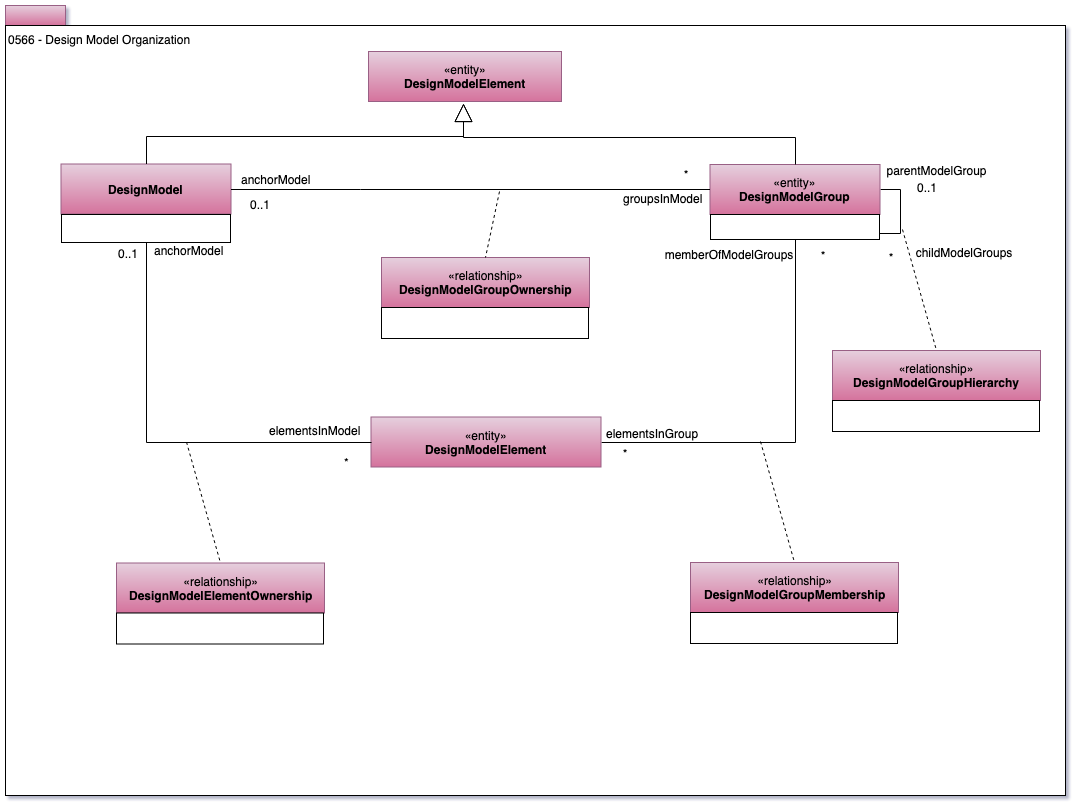
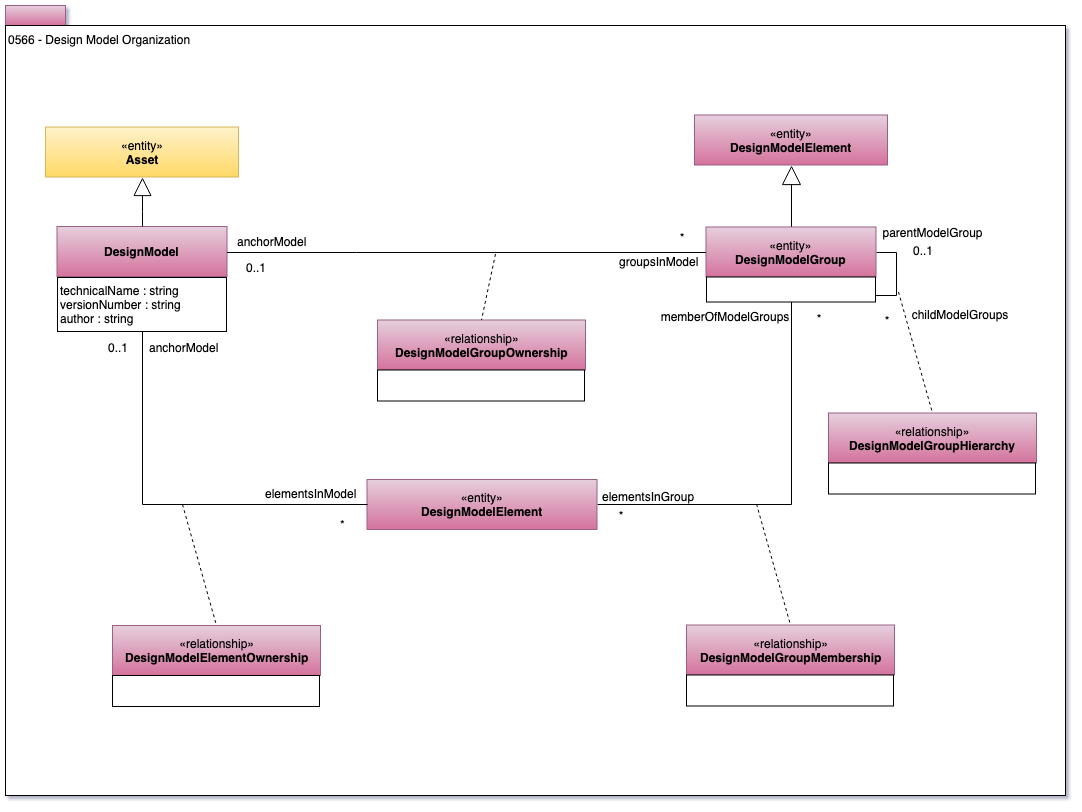
Make DesignModel an Asset (#1665)

diff --git a/open-metadata-resources/open-metadata-archives/open-metadata-types/src/main/java/org/odpi/openmetadata/opentypes/OpenMetadataTypesArchive.java b/open-metadata-resources/open-metadata-archives/open-metadata-types/src/main/java/org/odpi/openmetadata/opentypes/OpenMetadataTypesArchive.java
@@ -21033,7 +21033,7 @@ public class OpenMetadataTypesArchive
         final String attribute4Description     = "Version number of the model element.";
         final String attribute4DescriptionGUID = null;
         final String attribute5Name            = "author";
-        final String attribute5Description     = "UserId of the creator of the model element.";
+        final String attribute5Description     = "Name of the creator of the model (person or organization).";
         final String attribute5DescriptionGUID = null;
 
         property = archiveHelper.getStringTypeDefAttribute(attribute1Name,
@@ -21086,13 +21086,47 @@ public class OpenMetadataTypesArchive
         final String description     = "A curated collection of design model elements.";
         final String descriptionGUID = null;
 
-        final String superTypeName = "DesignModelElement";
+        final String superTypeName = "Asset";
 
-        return archiveHelper.getDefaultEntityDef(guid,
-                                                 name,
-                                                 this.archiveBuilder.getEntityDef(superTypeName),
-                                                 description,
-                                                 descriptionGUID);
+        EntityDef entityDef = archiveHelper.getDefaultEntityDef(guid,
+                                                                name,
+                                                                this.archiveBuilder.getEntityDef(superTypeName),
+                                                                description,
+                                                                descriptionGUID);
+
+        /*
+         * Build the attributes
+         */
+        List<TypeDefAttribute> properties = new ArrayList<>();
+        TypeDefAttribute       property;
+
+
+        final String attribute1Name            = "technicalName";
+        final String attribute1Description     = "Technical name (no spaces) that can be used in artifact generation.";
+        final String attribute1DescriptionGUID = null;
+        final String attribute2Name            = "versionNumber";
+        final String attribute2Description     = "Version number of the model.";
+        final String attribute2DescriptionGUID = null;
+        final String attribute3Name            = "author";
+        final String attribute3Description     = "Name of the creator of the model (person or organization).";
+        final String attribute3DescriptionGUID = null;
+
+        property = archiveHelper.getStringTypeDefAttribute(attribute1Name,
+                                                           attribute1Description,
+                                                           attribute1DescriptionGUID);
+        properties.add(property);
+        property = archiveHelper.getStringTypeDefAttribute(attribute2Name,
+                                                           attribute2Description,
+                                                           attribute2DescriptionGUID);
+        properties.add(property);
+        property = archiveHelper.getStringTypeDefAttribute(attribute3Name,
+                                                           attribute3Description,
+                                                           attribute3DescriptionGUID);
+        properties.add(property);
+
+        entityDef.setPropertiesDefinition(properties);
+
+        return entityDef;
     }
 
 
@@ -21582,7 +21616,7 @@ public class OpenMetadataTypesArchive
 
     private void add0571ConceptModels()
     {
-        this.archiveBuilder.addEnumDef(getConceptModelAttributeTypeEnum());
+        this.archiveBuilder.addEnumDef(getConceptModelAttributeCoverageCategoryEnum());
         this.archiveBuilder.addEnumDef(getConceptModelDecorationEnum());
 
         this.archiveBuilder.addEntityDef(getConceptModelElementEntity());
@@ -21592,13 +21626,15 @@ public class OpenMetadataTypesArchive
 
         this.archiveBuilder.addRelationshipDef(getConceptBeadRelationshipEndRelationship());
         this.archiveBuilder.addRelationshipDef(getConceptBeadAttributeLinkRelationship());
+
+        this.archiveBuilder.addClassificationDef(getConceptBeadAttributeCoverageClassification());
     }
 
 
-    private EnumDef getConceptModelAttributeTypeEnum()
+    private EnumDef getConceptModelAttributeCoverageCategoryEnum()
     {
         final String guid            = "2c0ac237-e02e-431a-89fd-3107d94d4007";
-        final String name            = "ConceptModelAttributeType";
+        final String name            = "ConceptModelAttributeCoverageCategory";
         final String description     = "Describes the type of attribute - this is used in scoping the model.";
         final String descriptionGUID = null;
 
@@ -21609,7 +21645,7 @@ public class OpenMetadataTypesArchive
 
         final int    element1Ordinal         = 0;
         final String element1Value           = "Unknown";
-        final String element1Description     = "The attribute type is unknown - this is the default.";
+        final String element1Description     = "The attribute's coverage category is unknown - this is the default.";
         final String element1DescriptionGUID = null;
 
         elementDef = archiveHelper.getEnumElementDef(element1Ordinal,
@@ -21792,33 +21828,11 @@ public class OpenMetadataTypesArchive
 
         final String superTypeName = "ConceptModelElement";
 
-        EntityDef entityDef =  archiveHelper.getDefaultEntityDef(guid,
-                                                                 name,
-                                                                 this.archiveBuilder.getEntityDef(superTypeName),
-                                                                 description,
-                                                                 descriptionGUID);
-
-        /*
-         * Build the attributes
-         */
-        List<TypeDefAttribute> properties = new ArrayList<>();
-        TypeDefAttribute       property;
-
-        final String attribute1Name            = "type";
-        final String attribute1Description     = "Type of role that the attribute plays as part of the concept bead.";
-        final String attribute1DescriptionGUID = null;
-
-
-        property = archiveHelper.getEnumTypeDefAttribute("ConceptModelAttributeType",
-                                                         attribute1Name,
-                                                         attribute1Description,
-                                                         attribute1DescriptionGUID);
-        properties.add(property);
-
-
-        entityDef.setPropertiesDefinition(properties);
-
-        return entityDef;
+        return  archiveHelper.getDefaultEntityDef(guid,
+                                                  name,
+                                                  this.archiveBuilder.getEntityDef(superTypeName),
+                                                  description,
+                                                  descriptionGUID);
     }
 
 
@@ -22050,6 +22064,46 @@ public class OpenMetadataTypesArchive
         relationshipDef.setPropertiesDefinition(properties);
 
         return relationshipDef;
+    }
+
+
+    private ClassificationDef getConceptBeadAttributeCoverageClassification()
+    {
+        final String guid            = "f8b60afe-ddef-4b6f-9628-82ebfff34d65";
+        final String name            = "ConceptBeadAttributeCoverage";
+        final String description     = "Identifies the coverage category of a concept bead attribute.";
+        final String descriptionGUID = null;
+
+        final String linkedToEntity = "ConceptBeadAttribute";
+
+        ClassificationDef classificationDef = archiveHelper.getClassificationDef(guid,
+                                                                                 name,
+                                                                                 null,
+                                                                                 description,
+                                                                                 descriptionGUID,
+                                                                                 this.archiveBuilder.getEntityDef(linkedToEntity),
+                                                                                 false);
+
+        /*
+         * Build the attributes
+         */
+        List<TypeDefAttribute> properties = new ArrayList<>();
+        TypeDefAttribute       property;
+
+        final String attribute1Name            = "coverageCategory";
+        final String attribute1Description     = "Type of role that the attribute plays as part of the concept bead.";
+        final String attribute1DescriptionGUID = null;
+
+
+        property = archiveHelper.getEnumTypeDefAttribute("ConceptModelAttributeCoverageCategory",
+                                                         attribute1Name,
+                                                         attribute1Description,
+                                                         attribute1DescriptionGUID);
+        properties.add(property);
+
+        classificationDef.setPropertiesDefinition(properties);
+
+        return classificationDef;
     }
 
 

diff --git a/open-metadata-resources/open-metadata-archives/open-metadata-types/src/main/java/org/odpi/openmetadata/opentypes/OpenMetadataTypesArchiveAccessor.java b/open-metadata-resources/open-metadata-archives/open-metadata-types/src/main/java/org/odpi/openmetadata/opentypes/OpenMetadataTypesArchiveAccessor.java
@@ -18,30 +18,32 @@ import java.util.Map;
  */
 public class OpenMetadataTypesArchiveAccessor
 {
+    private final Map<String, TypeDef>           typeDefsByName         = new HashMap<>();
+    private final Map<String, TypeDef>           typeDefsByGUID         = new HashMap<>();
     private final Map<String, EntityDef>         entityDefsByName       = new HashMap<>();
-    private final Map<String, EntityDef>         entityDefsByGuid       = new HashMap<>();
+    private final Map<String, EntityDef>         entityDefsByGUID       = new HashMap<>();
     private final Map<String, ClassificationDef> classificationDefs     = new HashMap<>();
     private final Map<String, RelationshipDef>   relationshipDefsByName = new HashMap<>();
-    private final Map<String, RelationshipDef>   relationshipDefsByGuid = new HashMap<>();
+    private final Map<String, RelationshipDef>   relationshipDefsByGUID = new HashMap<>();
     private final Map<String, EnumDef>           enumDefs               = new HashMap<>();
 
-    private static OpenMetadataTypesArchiveAccessor
-            instance = null;
+    private static OpenMetadataTypesArchiveAccessor instance = null;
+
 
     /**
      * Return a special singleton for the open metadata types archive (note not thread safe).
      *
      * @return OpenMetadataTypesArchiveAccessor instance loaded with the open metadata types
      */
-    public static OpenMetadataTypesArchiveAccessor getInstance()
+    public synchronized static OpenMetadataTypesArchiveAccessor getInstance()
     {
         if (instance == null)
         {
             instance = new OpenMetadataTypesArchiveAccessor(new OpenMetadataTypesArchive().getOpenMetadataArchive());
         }
+
         return instance;
     }
-
 
 
     /**
@@ -58,11 +60,14 @@ public class OpenMetadataTypesArchiveAccessor
          */
         for (TypeDef typeDef : typeStore.getNewTypeDefs())
         {
+            this.typeDefsByName.put(typeDef.getName(), typeDef);
+            this.typeDefsByGUID.put(typeDef.getGUID(), typeDef);
+
             switch (typeDef.getCategory())
             {
                 case ENTITY_DEF:
                     this.entityDefsByName.put(typeDef.getName(), ((EntityDef) typeDef));
-                    this.entityDefsByGuid.put(typeDef.getGUID(), ((EntityDef) typeDef));
+                    this.entityDefsByGUID.put(typeDef.getGUID(), ((EntityDef) typeDef));
                     break;
 
                 case CLASSIFICATION_DEF:
@@ -71,7 +76,7 @@ public class OpenMetadataTypesArchiveAccessor
 
                 case RELATIONSHIP_DEF:
                     this.relationshipDefsByName.put(typeDef.getName(), (RelationshipDef) typeDef);
-                    this.relationshipDefsByGuid.put(typeDef.getGUID(), (RelationshipDef) typeDef);
+                    this.relationshipDefsByGUID.put(typeDef.getGUID(), (RelationshipDef) typeDef);
                     break;
             }
         }
@@ -97,6 +102,30 @@ public class OpenMetadataTypesArchiveAccessor
 
 
     /**
+     * Return the type definition for the supplied name.
+     *
+     * @param typeName name of type
+     * @return TypeDef object from the archive
+     */
+    public TypeDef getTypeDefByName(String typeName)
+    {
+        return typeDefsByName.get(typeName);
+    }
+
+
+    /**
+     * Return the type definition for the supplied type guid.
+     *
+     * @param typeGUID guid of the type
+     * @return TypeDef object from the archive
+     */
+    public TypeDef getTypeDefByGUID(String typeGUID)
+    {
+        return typeDefsByGUID.get(typeGUID);
+    }
+
+
+    /**
      * Return the entity type definition for the supplied name.
      *
      * @param typeName name of type
@@ -116,7 +145,7 @@ public class OpenMetadataTypesArchiveAccessor
      */
     public EntityDef getEntityDefByGuid(String typeGuid)
     {
-        return entityDefsByGuid.get(typeGuid);
+        return entityDefsByGUID.get(typeGuid);
     }
 
 
@@ -140,7 +169,7 @@ public class OpenMetadataTypesArchiveAccessor
      */
     public RelationshipDef getRelationshipDefByGuid(String typeGuid)
     {
-        return relationshipDefsByGuid.get(typeGuid);
+        return relationshipDefsByGUID.get(typeGuid);
     }
 
 
